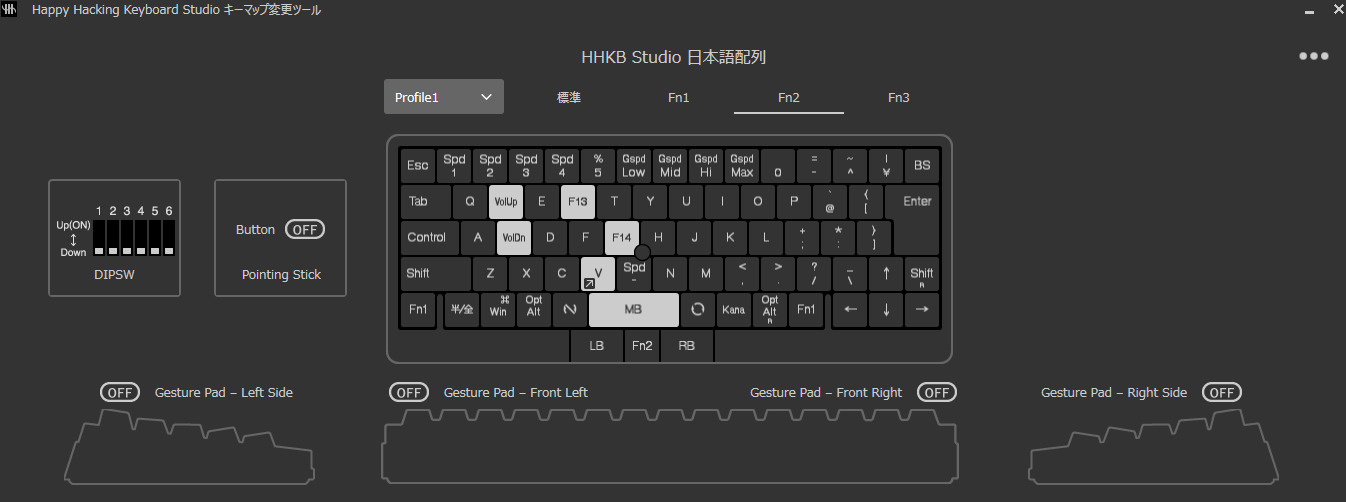
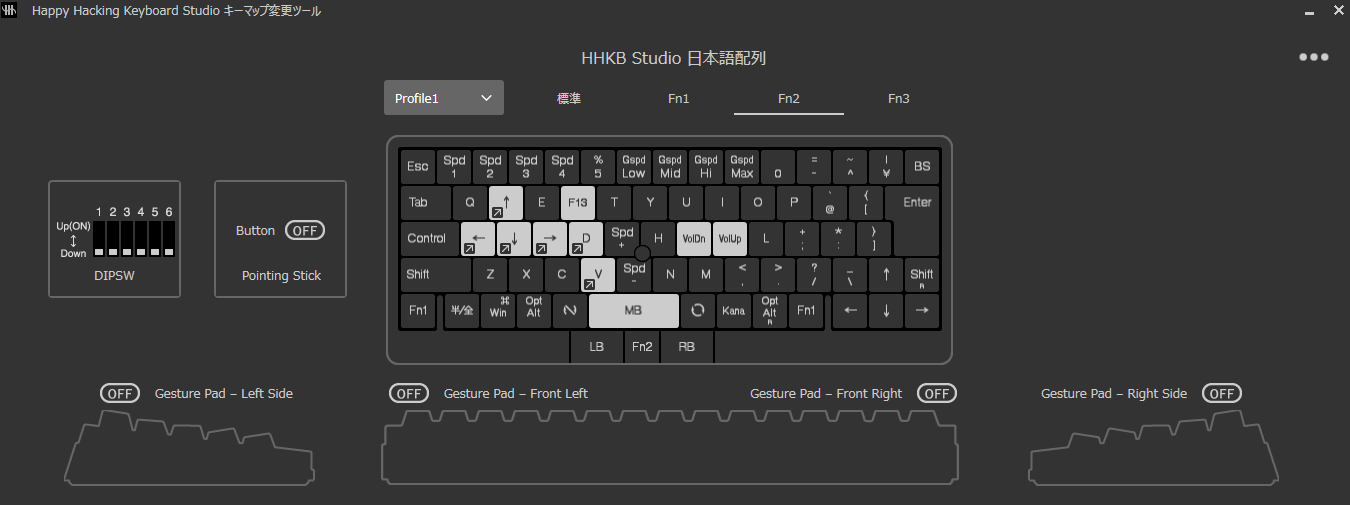
README.mdにF2レイヤーの説明を追加し、画像を更新。

diff --git a/device/peripheralDevice/README.md b/device/peripheralDevice/README.md
@@ -46,6 +46,17 @@ DIPスイッチは2のみオン
 ![](./img/hhkb_studio/fn1.png)  
 ![](./img/hhkb_studio/fn2.png)
 
+#### F2レイヤー
+* WASD
+    * `Win + ← or ↓ or ↑ or →`に設定
+    * 画面の分割や最大化を行いやすくするため
+* F13キーの追加
+    * OBSのリプレイバッファに割り当てている
+* V
+    * `Win + Ctrl + V`で音量ミキサーを開けるようにしている
+* F
+    * `Win + Shift + D`でPowerToysのマウスジャンプを起動する
+
 #### tips
 * USB接続に切り替え：`Fn1 + Ctrl + 0`
     * LEDインジケータ―全体が青く光る
@@ -55,10 +66,6 @@ DIPスイッチは2のみオン
 * プロファイルの切り替え：`Fn1 + C` → `1~4`
     * LEDインジケーターが`1~4`の対応する位置で光る
 * Windowsでは無変換でIMEオフ・変換でIMEオンになるように設定している
-* `F2`レイヤーの`V`は`Win + Ctrl + V`で音量ミキサーを開けるようにしている
-* `F13`と`F14`は外部アプリのショートカット用
-    * `F13`はOBSのリプレイバッファ保存
-    * `F14`はScreenToGifのレコーダーを起動
 
 ## Shokz操作
 * 電源のオンオフ
